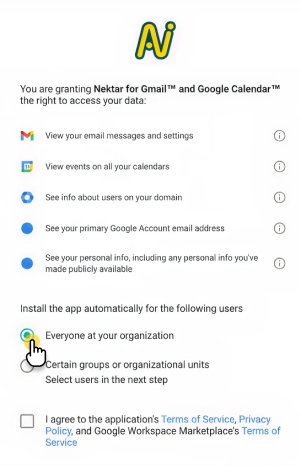
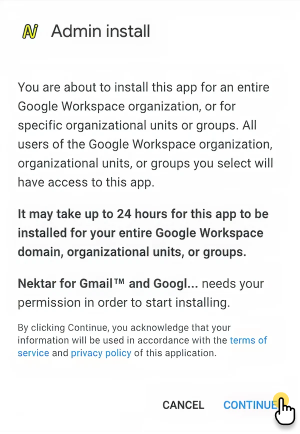
feat: pull Marketplace install image from Notion, normalize output path
- Remove hardcoded illustration/cardIcon SVGs from standalone page entry
- buildArticlePage now extracts first image block as illustration fallback
- Normalize output path to marketplace-install.html (matches nav)
- Delete stale installing-nektar-from-marketplace.html

diff --git a/docs/connectors/google-workspace/marketplace-install.html b/docs/connectors/google-workspace/marketplace-install.html
@@ -3,103 +3,75 @@
 <head>
   <meta charset="UTF-8" />
   <meta name="viewport" content="width=device-width, initial-scale=1.0" />
-  <title>Installing Nektar from Marketplace – Google Workspace – Nektar</title>
+  <title>3819417ef6ba81238421d6664937f71f – Nektar</title>
   <link rel="stylesheet" href="../../assets/css/styles.css" />
 </head>
 <body>
 <div id="nav-placeholder"></div>
-
 <div id="main-wrapper">
   <div class="page-content">
-
     <div class="page-hero">
       <div class="hero-text">
         <div class="breadcrumb">
           <a href="../../index.html">Home</a>
           <span class="sep">›</span>
-          <a href="../index.html">Connectors</a>
-          <span class="sep">›</span>
-          <a href="index.html">Google Workspace</a>
-          <span class="sep">›</span>
-          <span>Installing Nektar from Marketplace</span>
+          <span>3819417ef6ba81238421d6664937f71f</span>
         </div>
-        <h1>Installing Nektar from Marketplace</h1>
-        <p class="hero-desc">Step-by-step instructions for Google Workspace administrators to install Nektar for Gmail, Google Calendar and Google Meet.</p>
+        <h1>3819417ef6ba81238421d6664937f71f</h1>
+        <p class="hero-desc"></p>
       </div>
       <div class="hero-illustration" style="background: rgba(255,204,0,0.3);">
-        <img src="../../assets/images/articles/marketplace.svg" alt="Marketplace" style="object-fit: contain; width: 100%; height: 100%;" />
+        <img src="../../assets/images/notion/3819417ef6ba81238421d6664937f71f/0.png" alt="3819417ef6ba81238421d6664937f71f" style="object-fit: contain; width: 100%; height: 100%;" />
       </div>
     </div>
-
     <div class="article-layout">
       <div class="article-body">
         <div class="article-content">
-
           <p>Follow these simple steps to install Nektar for Gmail, Google Calendar and Google Meet from the Google Marketplace.</p>
-          <p><strong>Important:</strong> You must either be signed in as Google admin or have permission to install and give access to app from Google Marketplace.</p>
-
-          <h2 id="step-1">Step 1: Access the Marketplace</h2>
-          <p>Click on the following link to visit <a href="https://workspace.google.com/u/8/marketplace/app/nektar_for_gmail_and_google_calendar/313936287231">the Nektar app page on Google Marketplace</a>.</p>
-
-          <h2 id="step-2">Step 2: Select "Admin Install"</h2>
-          <div class="step-layout">
-            <div class="step-layout-text">
-              <p>On the app page, click the "Admin Install" button.</p>
-            </div>
-            <div class="step-layout-image">
-              <img src="../../assets/images/mockups/marketplace/step-2.png" alt="Admin Install button on Google Marketplace" />
-            </div>
-          </div>
-
-          <h2 id="step-3">Step 3: Click "Continue"</h2>
-          <div class="step-layout">
-            <div class="step-layout-text">
-              <p>A pop-up will appear to confirm the installation. Click "Continue" to proceed.</p>
-            </div>
-            <div class="step-layout-image">
-              <img src="../../assets/images/mockups/marketplace/step-3.png" alt="Continue confirmation pop-up" />
-            </div>
-          </div>
-
-          <h2 id="step-4">Step 4: Choose Installation Options</h2>
-          <div class="step-layout">
-            <div class="step-layout-text">
-              <p>You will be prompted to select one of the following options:</p>
-              <p><strong>Option 1: "Everyone at your organization"</strong></p>
-              <ul>
-                <li>Select this option to grant access to all users in your organization.</li>
-                <li>No additional steps are required.</li>
-              </ul>
-              <p><strong>Option 2: "Certain Groups or Organisational units"</strong></p>
-              <ul>
-                <li>Select this option to limit access to specific groups or organisational units.</li>
-                <li>Click here to see more details on how to create <a href="https://support.google.com/a/answer/9400082?authuser=1">groups</a> or <a href="https://support.google.com/a/answer/182537?authuser=1">organisational units</a>.</li>
-                <li><strong>Important:</strong> For this to work, ensure that Google administrator is part of the selected group or organisational unit.</li>
-              </ul>
-            </div>
-            <div class="step-layout-image">
-              <img src="../../assets/images/mockups/marketplace/step-4.png" alt="Installation options: everyone or certain groups" />
-            </div>
-          </div>
-
+<p><strong>Important:</strong> You must either be signed in as Google admin or have permission to install and give access to app from Google Marketplace.</p>
+<h2 id="step-1-access-the-marketplace">Step 1: Access the Marketplace</h2>
+<p>Click on the following link to visit <a href="https://workspace.google.com/u/8/marketplace/app/nektar_for_gmail_and_google_calendar/313936287231" target="_blank" rel="noopener noreferrer">the Nektar app page on Google Marketplace</a>.</p>
+<h2 id="step-2-select-admin-install">Step 2: Select &quot;Admin Install&quot;</h2>
+<p>On the app page, click the &quot;Admin Install&quot; button.</p>
+<figure class="article-image">
+  <img src="../../assets/images/notion/3819417ef6ba81238421d6664937f71f/1.png" alt="" />
+</figure>
+<h2 id="step-3-click-continue">Step 3: Click &quot;Continue&quot;</h2>
+<p>A pop-up will appear to confirm the installation. Click &quot;Continue&quot; to proceed.</p>
+<figure class="article-image">
+  <img src="../../assets/images/notion/3819417ef6ba81238421d6664937f71f/2.png" alt="" />
+</figure>
+<h2 id="step-4-choose-installation-options">Step 4: Choose Installation Options</h2>
+<p>You will be prompted to select one of the following options:</p>
+<p><strong>Option 1: &quot;Everyone at your organization&quot;</strong></p>
+<ul>
+<li>Select this option to grant access to all users in your organization.</li>
+<li>No additional steps are required.</li>
+</ul>
+<p><strong>Option 2: &quot;Certain Groups or Organisational units&quot;</strong></p>
+<ul>
+<li>Select this option to limit access to specific groups or organisational units.</li>
+<li>Click here to see more details on how to create <a href="https://support.google.com/a/answer/9400082?authuser=1" target="_blank" rel="noopener noreferrer">groups</a> or <a href="https://support.google.com/a/answer/182537?authuser=1" target="_blank" rel="noopener noreferrer">organisational units</a>.</li>
+<li><strong>Important:</strong> For this to work, ensure that Google administrator is part of the selected group or organisational unit.</li>
+</ul>
+<figure class="article-image">
+  <img src="../../assets/images/notion/3819417ef6ba81238421d6664937f71f/3.png" alt="" />
+</figure>
         </div>
       </div>
-
       <aside class="article-toc">
         <p class="toc-title">Content</p>
         <div class="toc-list">
-          <a href="#step-1">Step 1: Access the Marketplace</a>
-          <a href="#step-2">Step 2: Select "Admin Install"</a>
-          <a href="#step-3">Step 3: Click "Continue"</a>
-          <a href="#step-4">Step 4: Choose Installation Options</a>
+          <a href="#step-1-access-the-marketplace">Step 1: Access the Marketplace</a>
+          <a href="#step-2-select-admin-install">Step 2: Select &quot;Admin Install&quot;</a>
+          <a href="#step-3-click-continue">Step 3: Click &quot;Continue&quot;</a>
+          <a href="#step-4-choose-installation-options">Step 4: Choose Installation Options</a>
         </div>
       </aside>
     </div>
-
   </div>
   <div id="footer-placeholder"></div>
 </div>
-
 <script src="../../assets/js/components.js"></script>
 </body>
 </html>

diff --git a/builder/src/build.js b/builder/src/build.js
@@ -118,8 +118,9 @@ async function buildArticlePage(node, tree, pathIndex) {
   const blocks = await fetchBlockTree(node.id);
   const meta = pageMeta[node.id?.replace(/-/g, '')] || {};
 
-  // Extract description fields from Notion content (paragraphs prefixed with field name)
+  // Extract description fields and first image from Notion content
   let heroDesc = '';
+  let firstImageUrl = null;
   const bodyBlocks = [];
   const childPages = [];
   for (const block of blocks) {
@@ -129,6 +130,11 @@ async function buildArticlePage(node, tree, pathIndex) {
         heroDesc = plain.replace(/^(?:Short )?[Dd]escription:\s*/, '');
         continue;
       }
+    }
+    if (block.type === 'image' && !firstImageUrl) {
+      firstImageUrl = block.image?.type === 'external'
+        ? block.image.external?.url
+        : block.image?.file?.url;
     }
     if (block.type === 'child_page') {
       childPages.push(block);
@@ -142,10 +148,10 @@ async function buildArticlePage(node, tree, pathIndex) {
   const tocEntries = [];
   const body = renderBlocks(bodyBlocks, pathIndex, tocEntries, node.outputPath);
 
-  // Illustration comes from page-meta; fall back to the card icon from discovery
+  // Illustration: page-meta override → Notion discovery (cardIcon/illustration) → first image in page
   const effectiveNode = {
     ...node,
-    illustration: meta.illustration || node.illustration || node.cardIcon,
+    illustration: meta.illustration || node.illustration || node.cardIcon || firstImageUrl,
     illustrationBg: meta.illustrationBg,
   };
 

diff --git a/builder/page-meta.js b/builder/page-meta.js
@@ -20,11 +20,8 @@ export const pageMeta = {
   },
 
   // Google Workspace – Marketplace install (standalone, linked from article)
-  // No Notion entry toggle — illustration must be set explicitly here
   '3819417ef6ba81238421d6664937f71f': {
-    outputPath: 'connectors/google-workspace/installing-nektar-from-marketplace.html',
-    illustration: 'assets/images/articles/google-workspace.svg',
-    cardIcon: 'assets/images/articles/google-workspace.svg',
+    outputPath: 'connectors/google-workspace/marketplace-install.html',
     illustrationBg: 'rgba(255,204,0,0.3)',
   },
 

diff --git a/docs/connectors/google-workspace/index.html b/docs/connectors/google-workspace/index.html
@@ -32,7 +32,7 @@
           <h2 id="connection">Connection</h2>
 <p>Your Google Workspace administrator should install <a href="https://workspace.google.com/u/0/marketplace/app/nektar_for_gmail_and_google_calendar/313936287231" target="_blank" rel="noopener noreferrer">Nektar</a> from Google Marketplace.</p>
 <div class="callout callout-neutral-link callout-single-line">
-  <div class="callout-body"><p><a href="installing-nektar-from-marketplace.html" target="_blank" rel="noopener noreferrer"><strong>Admin guide for how to install Nektar from Marketplace</strong></a></p></div>
+  <div class="callout-body"><p><a href="marketplace-install.html" target="_blank" rel="noopener noreferrer"><strong>Admin guide for how to install Nektar from Marketplace</strong></a></p></div>
 </div>
 <p>Once the installation is completed, type your Google Workspace administrator's email address and click &quot;Connect&quot; to enable the connection within Nektar.</p>
 <h3 id="oauth-scopes"><strong>OAuth scopes</strong></h3>